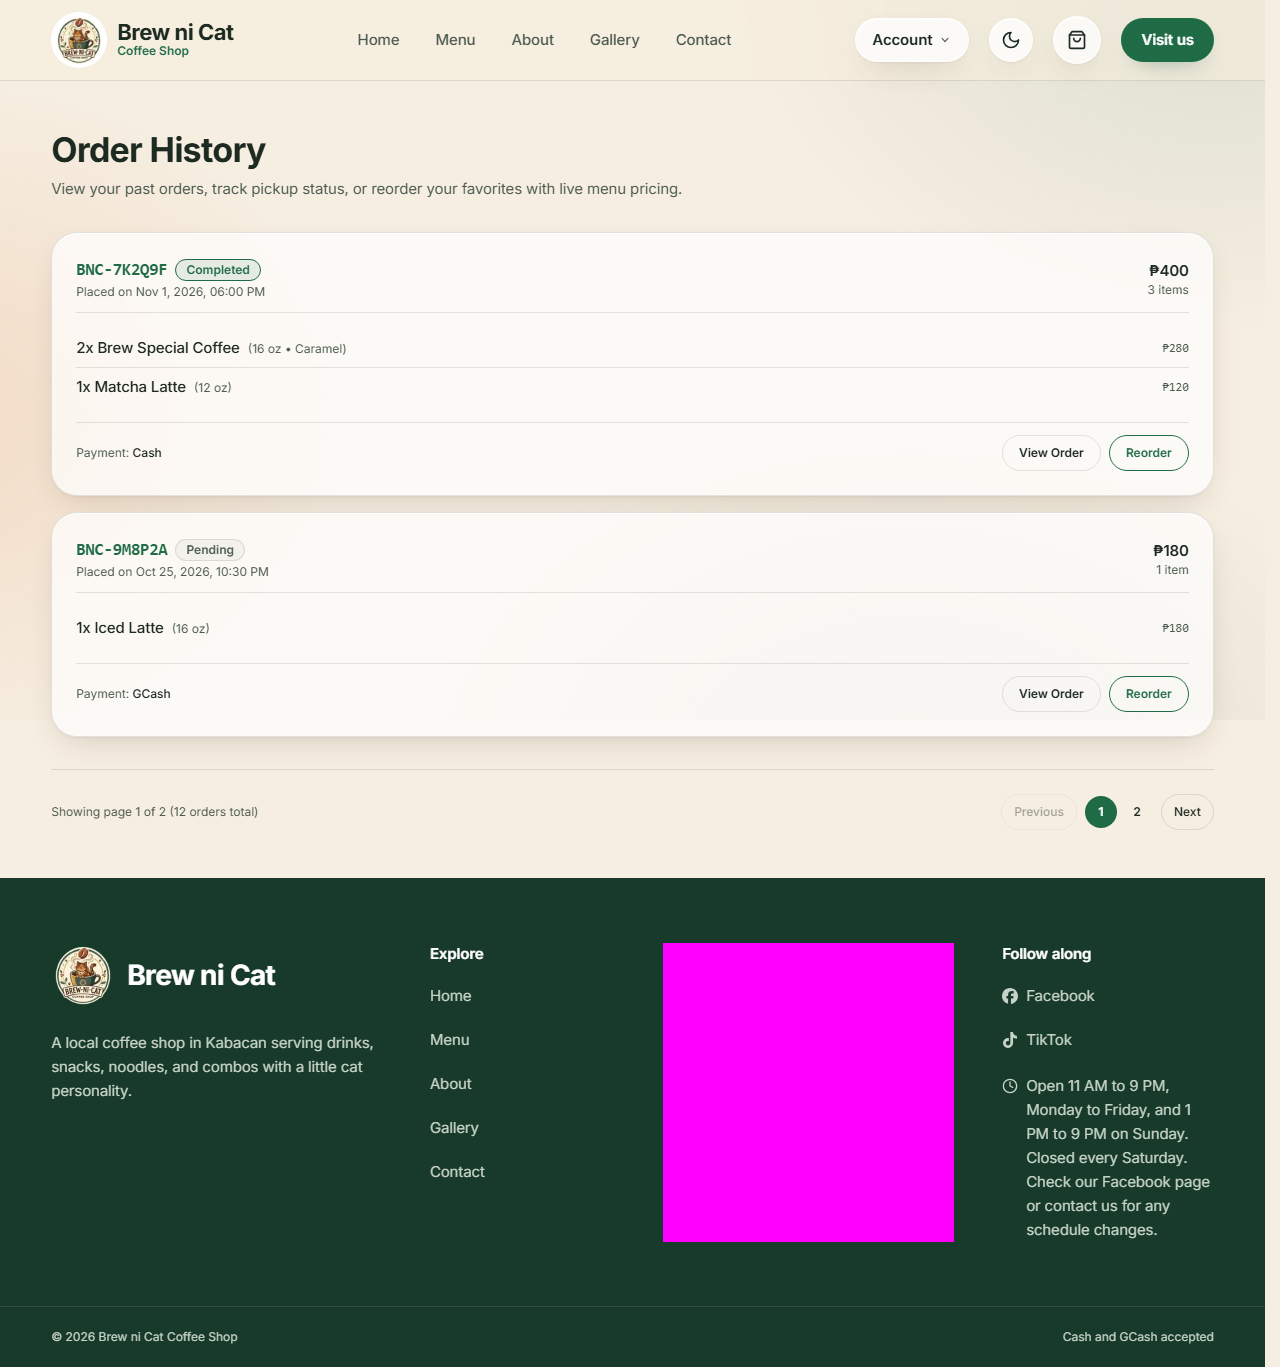
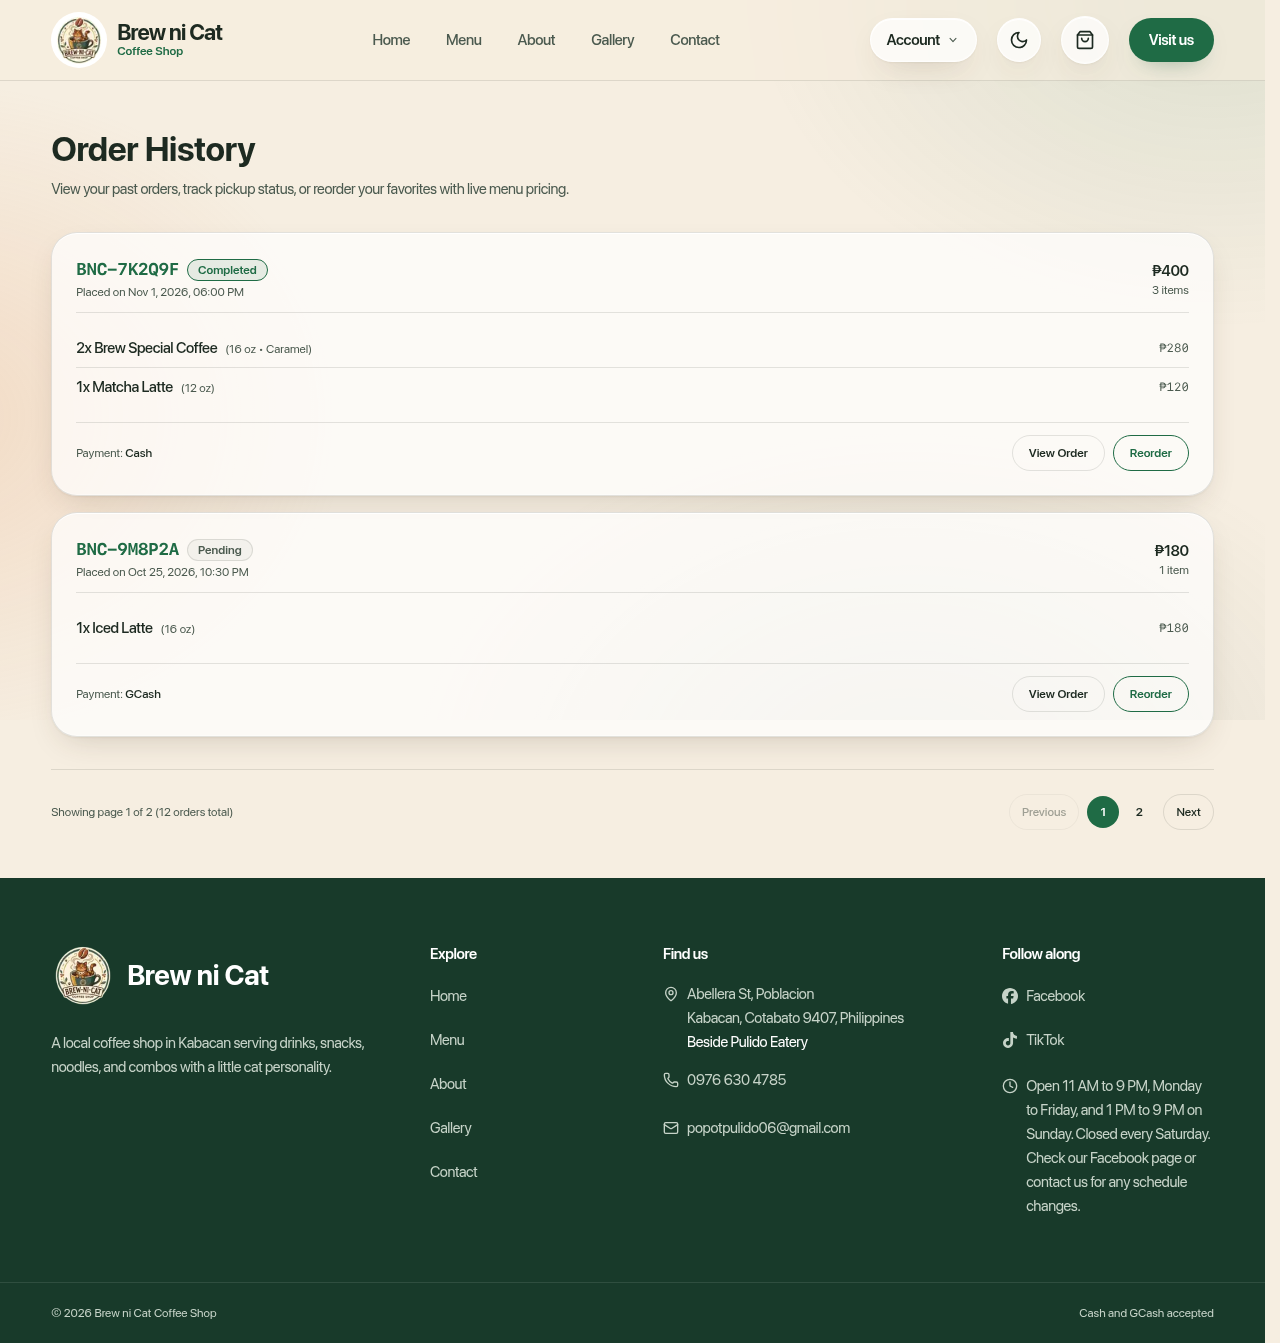
test: evidence screenshots no longer mask the footer (FR-039, FR-041)

diff --git a/tests/e2e/order-history.spec.ts b/tests/e2e/order-history.spec.ts
@@ -243,9 +243,6 @@ async function capture(page: Page, filename: string) {
   await page.screenshot({
     path: `${EVIDENCE_DIR}/${filename}`,
     fullPage: true,
-    // Cover the footer's "Find us" column so the shop's phone number and
-    // email address stay out of committed evidence.
-    mask: [page.getByRole("region", { name: "Find us" })],
   });
 }
 

diff --git a/docs/development-log.md b/docs/development-log.md
@@ -1392,3 +1392,14 @@ This log records completed work and observed evidence. Planned work is explicitl
 - **Branch / PR:** `feat/website-hide-bottled-water`, PR #95.
 - **Known limitations:** The same as for the Take-out Box and Cat Treats: the database still takes an order line for Bottled Water if an order is sent to it directly instead of through the website, and the server prices it from the saved price. It is matched by name, so if the owner renames it in the POS, the website lists it again until the new name is added to `isShopOnlyName()`.
 - **Next action:** None.
+
+## 2026-11-05 — Evidence screenshots show the footer (FR-039, FR-041)
+
+- **Phase:** Phase 5 (order history evidence).
+- **Task:** Stop masking the footer's "Find us" column in evidence screenshots.
+- **Summary:** `capture()` in `tests/e2e/order-history.spec.ts` no longer masks the footer's "Find us" column. I asked for that mask in the #87 review, but the column shows the shop's public phone number and email address, the same on every page, so the mask only left a pink box. The four order history screenshots (TC-P5-030 to TC-P5-033) were retaken without it; the masked versions are in PR #87.
+- **Files:** `tests/e2e/order-history.spec.ts`, `docs/test-cases.md`, `docs/development-log.md`, `docs/evidence/phase-5/screenshots/` (four PNGs).
+- **Testing:** `NODE_OPTIONS=--no-experimental-webstorage npx vitest run`: Test Files 61 passed (61), Tests 490 passed (490). `npx tsc --noEmit -p .`, `npx eslint . --max-warnings=0`, `npx prettier --check .` and `python3 scripts/validate_phase0_docs.py` pass. `npm run build`, then `CI=1 npx playwright test --project=chromium`: 28 passed, 1 skipped. `CAPTURE_EVIDENCE=1 CI=1 npx playwright test tests/e2e/order-history.spec.ts --project=chromium`: 4 passed, and the four screenshots show the footer with no mask.
+- **Branch / PR:** `test/evidence-footer-unmasked`, PR #96.
+- **Known limitations:** None.
+- **Next action:** None.

diff --git a/docs/test-cases.md b/docs/test-cases.md
@@ -702,7 +702,7 @@ Run on 2026-11-04. `npx vitest run tests/unit/order-history-service.test.ts test
 
 ### 30d. Order history browser evidence (TC-P5-030 to TC-P5-033)
 
-These run against the production build with Supabase Auth seeded in localStorage and PostgREST responses mocked, so no live account or real order is used. `content-range` is returned by the mocked `online_orders` endpoint to drive pagination. The footer's "Find us" column is masked in the captures so the shop's phone number and email address stay out of committed evidence.
+These run against the production build with Supabase Auth seeded in localStorage and PostgREST responses mocked, so no live account or real order is used. `content-range` is returned by the mocked `online_orders` endpoint to drive pagination. The footer's "Find us" column is masked in the captures so the shop's phone number and email address stay out of committed evidence. Changed on 2026-11-05 (PR #96): the footer is no longer masked. The phone number and email address in the "Find us" column are the shop's public contact details, shown on every page, so the four screenshots were retaken with the whole page; the masked versions are in PR #87.
 
 | ID | Requirement ID(s) | Module | Scenario | Preconditions | Input / action | Expected result | Actual result | Status | Evidence |
 |---|---|---|---|---|---|---|---|---|---|
